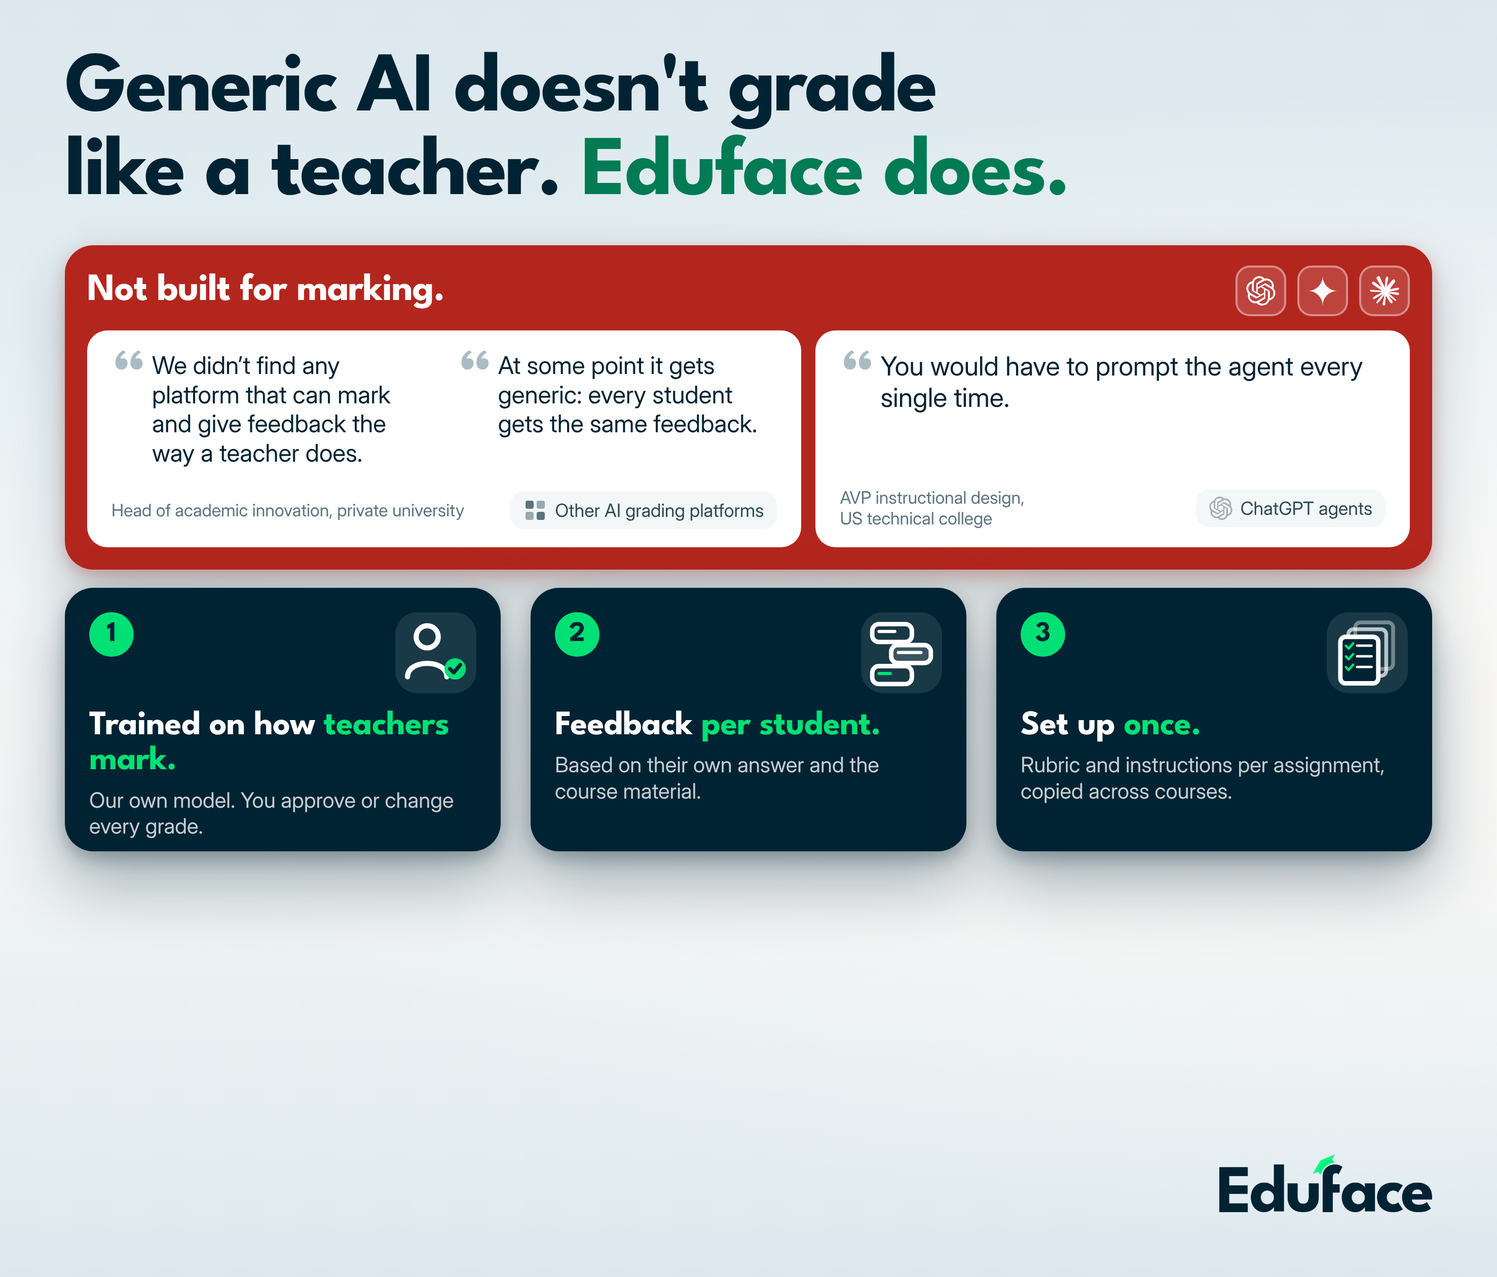
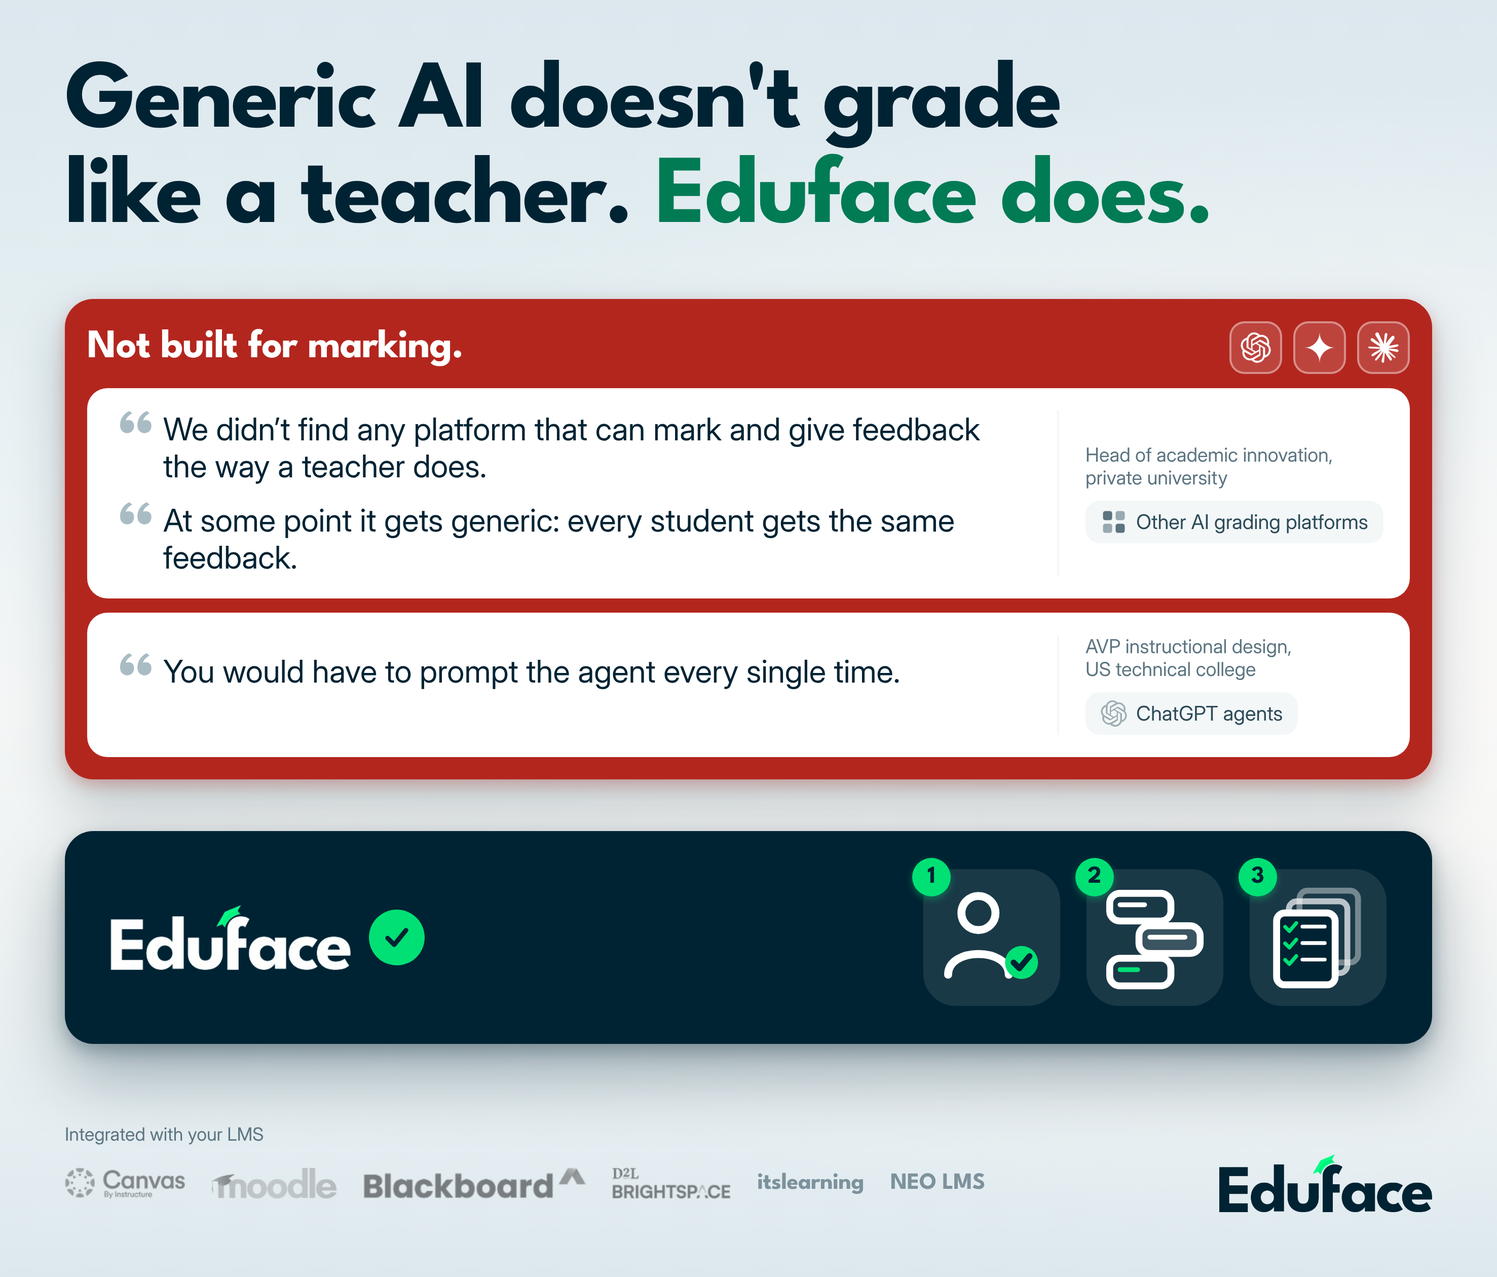
Backwall: hele wand gebruikt, quotes verticaal, Eduface-band zonder tekst, grijze LMS-rij onderaan
Claude-Session: https://claude.ai/code/session_011t24oRcD5DFuXzKigdVhtb

diff --git a/creatives/beurs-backwall/backwall.html b/creatives/beurs-backwall/backwall.html
@@ -4,7 +4,7 @@
 <meta charset="utf-8">
 <title>Beurs backwall</title>
 <style>
-  /* Canvas: 1 px = 1 mm. Wand is 2954 x 2520 mm. Onderste derde (vanaf y 1700) blijft leeg: dat zit aan de grond. */
+  /* Canvas: 1 px = 1 mm. Wand is 2954 x 2520 mm. Hele wand in gebruik: kop, rode zone, Eduface-band, LMS-rij onderaan. */
   @font-face { font-family: "League Spartan"; font-weight: 700; src: url("../../Design/Merk/fonts/LeagueSpartan-Bold.ttf"); }
   @font-face { font-family: "Inter"; font-weight: 400; src: url("../../Design/Merk/fonts/Inter-Regular.ttf"); }
   :root { --w: 2954px; --h: 2520px; --navy: #002333; --gd: #007b54; --g: #00e075; --i7: #2c4a57; --i5: #5b7480; --i3: #a9bcc4; --i2: #cdd9de; --i50: #f3f7f8; --red: #b3261e; }
@@ -19,40 +19,45 @@
   .abs { position: absolute; }
   .logo { position: absolute; right: 128px; bottom: 128px; width: 420px; height: auto; }
 
-  .h1 { position: absolute; left: 128px; top: 96px; font: 700 168px/.98 "League Spartan"; letter-spacing: -.025em; color: var(--navy); white-space: nowrap; }
+  .h1 { position: absolute; left: 128px; top: 110px; font: 700 192px/.98 "League Spartan"; letter-spacing: -.025em; color: var(--navy); white-space: nowrap; }
   .h1 em { font-style: normal; color: var(--gd); }
 
-  /* verticaal: titel, een rode zone (quotes + gebruikte tools), drie Eduface-kaarten. */
-  .red { position: absolute; left: 128px; top: 484px; width: 2698px; height: 640px; border-radius: 56px; background: var(--red);
-    padding: 40px 44px 44px; display: flex; flex-direction: column; gap: 28px;
+  /* rode zone: quotes onder elkaar */
+  .red { position: absolute; left: 128px; top: 590px; width: 2698px; border-radius: 56px; background: var(--red);
+    padding: 44px; display: flex; flex-direction: column; gap: 28px;
     box-shadow: 0 12px 30px rgba(179,38,30,.28), 0 50px 110px rgba(0,35,51,.22); }
-  .rhead { display: flex; align-items: center; justify-content: space-between; height: 100px; flex-shrink: 0; }
-  .rtitle { font: 700 76px/1 "League Spartan"; letter-spacing: -.015em; color: #fff; }
+  .rhead { display: flex; align-items: center; justify-content: space-between; height: 104px; }
+  .rtitle { font: 700 80px/1 "League Spartan"; letter-spacing: -.015em; color: #fff; }
   .rlogos { display: flex; gap: 22px; }
-  .rl { width: 100px; height: 100px; border-radius: 28px; background: rgba(255,255,255,.14); box-shadow: inset 0 0 0 4px rgba(255,255,255,.4); display: flex; align-items: center; justify-content: center; }
-  .rl img { width: 58px; height: 58px; filter: brightness(0) invert(1); }
+  .rl { width: 104px; height: 104px; border-radius: 30px; background: rgba(255,255,255,.14); box-shadow: inset 0 0 0 4px rgba(255,255,255,.4); display: flex; align-items: center; justify-content: center; }
+  .rl img { width: 60px; height: 60px; filter: brightness(0) invert(1); }
 
-  .rcards { display: flex; gap: 28px; flex: 1; min-height: 0; }
-  .qc { background: #fff; border-radius: 40px; padding: 40px 48px 36px; display: flex; flex-direction: column; justify-content: space-between; }
-  .qc.wide { flex: 1.22; } .qc.single { flex: 1; }
-  .qs { display: flex; gap: 52px; }
-  .qone { flex: 1; display: flex; gap: 18px; }
-  .qm { font: 700 130px/.8 "League Spartan"; color: var(--i3); width: 62px; flex: none; margin-top: 4px; }
-  .qt { font: 400 48px/1.2 Inter; color: var(--navy); }
-  .qc.single .qt { font-size: 52px; }
-  .qfoot { display: flex; align-items: center; justify-content: space-between; gap: 24px; }
-  .who { font: 400 34px/1.2 Inter; color: var(--i5); }
-  .tool { display: flex; align-items: center; gap: 16px; background: var(--i50); border-radius: 26px; padding: 14px 26px; font: 400 36px/1 Inter; color: var(--i7); white-space: nowrap; }
-  .tool img { width: 46px; height: 46px; opacity: .8; }
+  .qc { background: #fff; border-radius: 40px; padding: 44px 56px; display: flex; gap: 60px; align-items: stretch; }
+  .qs { flex: 1; display: flex; flex-direction: column; gap: 34px; justify-content: center; }
+  .qone { display: flex; gap: 22px; }
+  .qm { font: 700 150px/.8 "League Spartan"; color: var(--i3); width: 72px; flex: none; margin-top: 6px; }
+  .qt { font: 400 62px/1.18 Inter; color: var(--navy); }
+  .side { width: 640px; flex: none; display: flex; flex-direction: column; justify-content: center; gap: 22px; border-left: 4px solid var(--i50); padding-left: 52px; }
+  .who { font: 400 38px/1.2 Inter; color: var(--i5); }
+  .tool { align-self: flex-start; display: flex; align-items: center; gap: 18px; background: var(--i50); border-radius: 28px; padding: 16px 30px; font: 400 40px/1 Inter; color: var(--i7); white-space: nowrap; }
+  .tool img { width: 52px; height: 52px; opacity: .8; }
 
-  .adv { position: absolute; top: 1160px; width: 860px; height: 520px; padding: 48px; border-radius: 56px; background: var(--navy); color: #fff;
+  /* Eduface-band: geen tekst, alleen merk en drie iconen */
+  .eb { position: absolute; left: 128px; width: 2698px; height: 420px; border-radius: 56px; background: var(--navy);
+    display: flex; align-items: center; justify-content: space-between; padding: 0 90px;
     box-shadow: 0 14px 34px rgba(0,35,51,.28), 0 60px 130px rgba(0,35,51,.34); }
-  .adv .top { display: flex; justify-content: space-between; align-items: flex-start; }
-  .num { width: 88px; height: 88px; border-radius: 50%; background: var(--g); color: var(--navy); display: flex; align-items: center; justify-content: center; font: 700 56px/1 "League Spartan"; }
-  .ic { width: 160px; height: 160px; border-radius: 44px; background: rgba(255,255,255,.1); display: flex; align-items: center; justify-content: center; }
-  .a1 { font: 700 68px/1.02 "League Spartan"; letter-spacing: -.01em; margin-top: 30px; }
-  .a1 span { color: var(--g); }
-  .a2 { font: 400 42px/1.22 Inter; color: rgba(255,255,255,.78); margin-top: 16px; }
+  .eb .mark { display: flex; align-items: center; gap: 36px; }
+  .eb .mark img { height: 130px; width: auto; }
+  .ok { width: 110px; height: 110px; border-radius: 50%; background: var(--g); display: flex; align-items: center; justify-content: center; }
+  .icons { display: flex; gap: 52px; }
+  .it { position: relative; width: 270px; height: 270px; border-radius: 64px; background: rgba(255,255,255,.1); display: flex; align-items: center; justify-content: center; }
+  .it .n { position: absolute; top: -22px; left: -22px; width: 76px; height: 76px; border-radius: 50%; background: var(--g); color: var(--navy); display: flex; align-items: center; justify-content: center; font: 700 48px/1 "League Spartan"; box-shadow: 0 6px 14px rgba(0,224,117,.35); }
+
+  /* LMS-rij onderaan, links van het Eduface-logo */
+  .lms { position: absolute; left: 128px; top: 2278px; height: 114px; display: flex; align-items: center; gap: 52px; }
+  .lms img { height: 62px; width: auto; filter: grayscale(1) contrast(.9); opacity: .5; }
+  .lms .wm { font: 700 46px/1 "League Spartan"; letter-spacing: -.01em; color: var(--i5); opacity: .75; white-space: nowrap; }
+  .lms .lab { position: absolute; left: 0; top: -58px; font: 400 36px/1 Inter; color: var(--i5); white-space: nowrap; }
 </style>
 </head>
 <body>
@@ -64,23 +69,21 @@
 <script>
 const N='#002333', G='#00e075', W='#fff';
 const L=(f)=>`assets/logos/${f}.svg`;
-const chevD=`<svg width="40" height="40" viewBox="0 0 30 30"><polyline points="7,11 15,20 23,11" fill="none" stroke="#fff" stroke-width="5" stroke-linecap="round" stroke-linejoin="round"/></svg>`;
-const sv=(inner,s=136)=>`<svg width="${s}" height="${s}" viewBox="0 0 400 400">${inner}</svg>`;
+const sv=(inner,s=210)=>`<svg width="${s}" height="${s}" viewBox="0 0 400 400">${inner}</svg>`;
 
 /* Quotes: bron Eduface case study 25-11-2026, licht bewerkt voor correct Engels. Functie anoniem. */
-const platformIc=`<svg width="46" height="46" viewBox="0 0 46 46"><rect x="4" y="4" width="16" height="16" rx="4" fill="#5b7480"/><rect x="26" y="4" width="16" height="16" rx="4" fill="#5b7480" opacity=".6"/><rect x="4" y="26" width="16" height="16" rx="4" fill="#5b7480" opacity=".6"/><rect x="26" y="26" width="16" height="16" rx="4" fill="#5b7480"/></svg>`;
-const quote=(t,cls='')=>`<div class="qone"><div class="qm">\u201C</div><div class="qt">${t}</div></div>`;
+const platformIc=`<svg width="52" height="52" viewBox="0 0 46 46"><rect x="4" y="4" width="16" height="16" rx="4" fill="#5b7480"/><rect x="26" y="4" width="16" height="16" rx="4" fill="#5b7480" opacity=".6"/><rect x="4" y="26" width="16" height="16" rx="4" fill="#5b7480" opacity=".6"/><rect x="26" y="26" width="16" height="16" rx="4" fill="#5b7480"/></svg>`;
+const quote=(t)=>`<div class="qone"><div class="qm">“</div><div class="qt">${t}</div></div>`;
 const rl=(img)=>`<div class="rl"><img src="${L(img)}"></div>`;
 const red=`<div class="red">
   <div class="rhead"><div class="rtitle">Not built for marking.</div><div class="rlogos">${rl('openai')}${rl('googlegemini')}${rl('claude')}</div></div>
-  <div class="rcards">
-    <div class="qc wide"><div class="qs">${quote('We didn\u2019t find any platform that can mark and give feedback the way a teacher does.')}${quote('At some point it gets generic: every student gets the same feedback.')}</div>
-      <div class="qfoot"><div class="who">Head of academic innovation, private university</div><div class="tool">${platformIc}Other AI grading platforms</div></div></div>
-    <div class="qc single"><div class="qs">${quote('You would have to prompt the agent every single time.')}</div>
-      <div class="qfoot"><div class="who">AVP instructional design,<br>US technical college</div><div class="tool"><img src="${L('openai')}">ChatGPT agents</div></div></div>
-  </div></div>`;
+  <div class="qc"><div class="qs">${quote('We didn’t find any platform that can mark and give feedback the way a teacher does.')}${quote('At some point it gets generic: every student gets the same feedback.')}</div>
+    <div class="side"><div class="who">Head of academic innovation,<br>private university</div><div class="tool">${platformIc}Other AI grading platforms</div></div></div>
+  <div class="qc"><div class="qs">${quote('You would have to prompt the agent every single time.')}</div>
+    <div class="side"><div class="who">AVP instructional design,<br>US technical college</div><div class="tool"><img src="${L('openai')}">ChatGPT agents</div></div></div>
+</div>`;
 
-/* iconen (wit op navy, groene accenten) */
+/* iconen */
 const icTeacher=sv(`<circle cx="150" cy="108" r="64" fill="none" stroke="${W}" stroke-width="30"/><path d="M36,340 C36,236 264,236 264,340" fill="none" stroke="${W}" stroke-width="30" stroke-linecap="round"/><circle cx="312" cy="294" r="62" fill="${G}"/><polyline points="282,294 304,316 342,270" fill="none" stroke="${N}" stroke-width="22" stroke-linecap="round" stroke-linejoin="round"/>`);
 const icBubbles=sv(`<rect x="30" y="34" width="230" height="104" rx="38" fill="none" stroke="${W}" stroke-width="26"/><rect x="60" y="68" width="110" height="18" rx="9" fill="${W}"/>
   <rect x="140" y="156" width="230" height="104" rx="38" fill="rgba(255,255,255,.14)" stroke="${W}" stroke-width="26"/><rect x="172" y="190" width="150" height="18" rx="9" fill="${W}"/>
@@ -89,17 +92,16 @@ const icSheets=sv(`<rect x="130" y="24" width="220" height="270" rx="30" fill="n
   <rect x="90" y="64" width="220" height="270" rx="30" fill="none" stroke="${W}" stroke-width="22" opacity=".7"/>
   <rect x="44" y="108" width="220" height="270" rx="30" fill="${N}" stroke="${W}" stroke-width="26"/>
   ${[160,222,284].map(y=>`<polyline points="76,${y} 92,${y+16} 118,${y-14}" fill="none" stroke="${G}" stroke-width="14" stroke-linecap="round" stroke-linejoin="round"/><rect x="134" y="${y-8}" width="98" height="14" rx="7" fill="${W}"/>`).join('')}`);
+const okIc=`<div class="ok"><svg width="70" height="70" viewBox="0 0 54 54"><path d="M13,28 L23,38 L41,16" fill="none" stroke="${N}" stroke-width="7" stroke-linecap="round" stroke-linejoin="round"/></svg></div>`;
+const eb=(top)=>`<div class="eb" style="top:${top}px"><div class="mark"><img src="assets/logos/eduface-white.png">${okIc}</div>
+  <div class="icons"><div class="it"><div class="n">1</div>${icTeacher}</div><div class="it"><div class="n">2</div>${icBubbles}</div><div class="it"><div class="n">3</div>${icSheets}</div></div></div>`;
 
-const X=[128,1047,1966];
-const ADV=[
- {ic:icTeacher, h:'Trained on how <span>teachers mark.</span>', t:'Our own model. You approve or change every grade.'},
- {ic:icBubbles, h:'Feedback <span>per student.</span>', t:'Based on their own answer and the course material.'},
- {ic:icSheets,  h:'Set up <span>once.</span>', t:'Rubric and instructions per assignment, copied across courses.'}
-];
-const adv=ADV.map((r,i)=>`<div class="adv" style="left:${X[i]}px"><div class="top"><div class="num">${i+1}</div><div class="ic">${r.ic}</div></div><div class="a1">${r.h}</div><div class="a2">${r.t}</div></div>`).join('');
+/* LMS: logo's uit de door Dante aangeleverde strook; itslearning en Neo LMS als tekst tot er een logo is */
+const lms=`<div class="lms"><div class="lab">Integrated with your LMS</div>
+  <img src="assets/logos/lms-canvas.png"><img src="assets/logos/lms-moodle.png"><img src="assets/logos/lms-blackboard.png"><img src="assets/logos/lms-brightspace.png"><div class="wm">itslearning</div><div class="wm">NEO LMS</div></div>`;
 
 document.getElementById('layer-content').innerHTML =
- `<div class="h1">Generic AI doesn't grade<br>like a teacher. <em>Eduface does.</em></div>${red}${adv}`;
+ `<div class="h1">Generic AI doesn't grade<br>like a teacher. <em>Eduface does.</em></div>${red}${eb(1640)}${lms}`;
 </script>
 </body>
 </html>

diff --git a/creatives/beurs-backwall/backwall-rode-zone-2026-11-25.html b/creatives/beurs-backwall/backwall-rode-zone-2026-11-25.html
@@ -1,0 +1,105 @@
+<!doctype html>
+<html lang="en">
+<head>
+<meta charset="utf-8">
+<title>Beurs backwall</title>
+<style>
+  /* Canvas: 1 px = 1 mm. Wand is 2954 x 2520 mm. Onderste derde (vanaf y 1700) blijft leeg: dat zit aan de grond. */
+  @font-face { font-family: "League Spartan"; font-weight: 700; src: url("../../Design/Merk/fonts/LeagueSpartan-Bold.ttf"); }
+  @font-face { font-family: "Inter"; font-weight: 400; src: url("../../Design/Merk/fonts/Inter-Regular.ttf"); }
+  :root { --w: 2954px; --h: 2520px; --navy: #002333; --gd: #007b54; --g: #00e075; --i7: #2c4a57; --i5: #5b7480; --i3: #a9bcc4; --i2: #cdd9de; --i50: #f3f7f8; --red: #b3261e; }
+  * { margin: 0; box-sizing: border-box; }
+  html, body { width: var(--w); height: var(--h); }
+  .wall {
+    position: relative; width: var(--w); height: var(--h); overflow: hidden; color: var(--navy);
+    background:
+      radial-gradient(ellipse 80% 45% at 90% 52%, #f9f8f7 0%, rgba(249,248,247,0) 100%),
+      linear-gradient(180deg, #dce7ee 0%, #e2edf1 20%, #ecf3f5 40%, #f4f6f6 55%, #eff3f3 70%, #e4edf1 90%, #dde8ee 100%);
+  }
+  .abs { position: absolute; }
+  .logo { position: absolute; right: 128px; bottom: 128px; width: 420px; height: auto; }
+
+  .h1 { position: absolute; left: 128px; top: 96px; font: 700 168px/.98 "League Spartan"; letter-spacing: -.025em; color: var(--navy); white-space: nowrap; }
+  .h1 em { font-style: normal; color: var(--gd); }
+
+  /* verticaal: titel, een rode zone (quotes + gebruikte tools), drie Eduface-kaarten. */
+  .red { position: absolute; left: 128px; top: 484px; width: 2698px; height: 640px; border-radius: 56px; background: var(--red);
+    padding: 40px 44px 44px; display: flex; flex-direction: column; gap: 28px;
+    box-shadow: 0 12px 30px rgba(179,38,30,.28), 0 50px 110px rgba(0,35,51,.22); }
+  .rhead { display: flex; align-items: center; justify-content: space-between; height: 100px; flex-shrink: 0; }
+  .rtitle { font: 700 76px/1 "League Spartan"; letter-spacing: -.015em; color: #fff; }
+  .rlogos { display: flex; gap: 22px; }
+  .rl { width: 100px; height: 100px; border-radius: 28px; background: rgba(255,255,255,.14); box-shadow: inset 0 0 0 4px rgba(255,255,255,.4); display: flex; align-items: center; justify-content: center; }
+  .rl img { width: 58px; height: 58px; filter: brightness(0) invert(1); }
+
+  .rcards { display: flex; gap: 28px; flex: 1; min-height: 0; }
+  .qc { background: #fff; border-radius: 40px; padding: 40px 48px 36px; display: flex; flex-direction: column; justify-content: space-between; }
+  .qc.wide { flex: 1.22; } .qc.single { flex: 1; }
+  .qs { display: flex; gap: 52px; }
+  .qone { flex: 1; display: flex; gap: 18px; }
+  .qm { font: 700 130px/.8 "League Spartan"; color: var(--i3); width: 62px; flex: none; margin-top: 4px; }
+  .qt { font: 400 48px/1.2 Inter; color: var(--navy); }
+  .qc.single .qt { font-size: 52px; }
+  .qfoot { display: flex; align-items: center; justify-content: space-between; gap: 24px; }
+  .who { font: 400 34px/1.2 Inter; color: var(--i5); }
+  .tool { display: flex; align-items: center; gap: 16px; background: var(--i50); border-radius: 26px; padding: 14px 26px; font: 400 36px/1 Inter; color: var(--i7); white-space: nowrap; }
+  .tool img { width: 46px; height: 46px; opacity: .8; }
+
+  .adv { position: absolute; top: 1160px; width: 860px; height: 520px; padding: 48px; border-radius: 56px; background: var(--navy); color: #fff;
+    box-shadow: 0 14px 34px rgba(0,35,51,.28), 0 60px 130px rgba(0,35,51,.34); }
+  .adv .top { display: flex; justify-content: space-between; align-items: flex-start; }
+  .num { width: 88px; height: 88px; border-radius: 50%; background: var(--g); color: var(--navy); display: flex; align-items: center; justify-content: center; font: 700 56px/1 "League Spartan"; }
+  .ic { width: 160px; height: 160px; border-radius: 44px; background: rgba(255,255,255,.1); display: flex; align-items: center; justify-content: center; }
+  .a1 { font: 700 68px/1.02 "League Spartan"; letter-spacing: -.01em; margin-top: 30px; }
+  .a1 span { color: var(--g); }
+  .a2 { font: 400 42px/1.22 Inter; color: rgba(255,255,255,.78); margin-top: 16px; }
+</style>
+</head>
+<body>
+  <div class="wall" id="wall">
+    <div id="layer-content"></div>
+    <img class="logo" src="../../Design/Merk/logos/logo_navy.png" alt="Eduface">
+  </div>
+
+<script>
+const N='#002333', G='#00e075', W='#fff';
+const L=(f)=>`assets/logos/${f}.svg`;
+const chevD=`<svg width="40" height="40" viewBox="0 0 30 30"><polyline points="7,11 15,20 23,11" fill="none" stroke="#fff" stroke-width="5" stroke-linecap="round" stroke-linejoin="round"/></svg>`;
+const sv=(inner,s=136)=>`<svg width="${s}" height="${s}" viewBox="0 0 400 400">${inner}</svg>`;
+
+/* Quotes: bron Eduface case study 25-11-2026, licht bewerkt voor correct Engels. Functie anoniem. */
+const platformIc=`<svg width="46" height="46" viewBox="0 0 46 46"><rect x="4" y="4" width="16" height="16" rx="4" fill="#5b7480"/><rect x="26" y="4" width="16" height="16" rx="4" fill="#5b7480" opacity=".6"/><rect x="4" y="26" width="16" height="16" rx="4" fill="#5b7480" opacity=".6"/><rect x="26" y="26" width="16" height="16" rx="4" fill="#5b7480"/></svg>`;
+const quote=(t,cls='')=>`<div class="qone"><div class="qm">\u201C</div><div class="qt">${t}</div></div>`;
+const rl=(img)=>`<div class="rl"><img src="${L(img)}"></div>`;
+const red=`<div class="red">
+  <div class="rhead"><div class="rtitle">Not built for marking.</div><div class="rlogos">${rl('openai')}${rl('googlegemini')}${rl('claude')}</div></div>
+  <div class="rcards">
+    <div class="qc wide"><div class="qs">${quote('We didn\u2019t find any platform that can mark and give feedback the way a teacher does.')}${quote('At some point it gets generic: every student gets the same feedback.')}</div>
+      <div class="qfoot"><div class="who">Head of academic innovation, private university</div><div class="tool">${platformIc}Other AI grading platforms</div></div></div>
+    <div class="qc single"><div class="qs">${quote('You would have to prompt the agent every single time.')}</div>
+      <div class="qfoot"><div class="who">AVP instructional design,<br>US technical college</div><div class="tool"><img src="${L('openai')}">ChatGPT agents</div></div></div>
+  </div></div>`;
+
+/* iconen (wit op navy, groene accenten) */
+const icTeacher=sv(`<circle cx="150" cy="108" r="64" fill="none" stroke="${W}" stroke-width="30"/><path d="M36,340 C36,236 264,236 264,340" fill="none" stroke="${W}" stroke-width="30" stroke-linecap="round"/><circle cx="312" cy="294" r="62" fill="${G}"/><polyline points="282,294 304,316 342,270" fill="none" stroke="${N}" stroke-width="22" stroke-linecap="round" stroke-linejoin="round"/>`);
+const icBubbles=sv(`<rect x="30" y="34" width="230" height="104" rx="38" fill="none" stroke="${W}" stroke-width="26"/><rect x="60" y="68" width="110" height="18" rx="9" fill="${W}"/>
+  <rect x="140" y="156" width="230" height="104" rx="38" fill="rgba(255,255,255,.14)" stroke="${W}" stroke-width="26"/><rect x="172" y="190" width="150" height="18" rx="9" fill="${W}"/>
+  <rect x="30" y="278" width="230" height="104" rx="38" fill="none" stroke="${W}" stroke-width="26"/><rect x="60" y="312" width="84" height="18" rx="9" fill="${G}"/>`);
+const icSheets=sv(`<rect x="130" y="24" width="220" height="270" rx="30" fill="none" stroke="${W}" stroke-width="22" opacity=".4"/>
+  <rect x="90" y="64" width="220" height="270" rx="30" fill="none" stroke="${W}" stroke-width="22" opacity=".7"/>
+  <rect x="44" y="108" width="220" height="270" rx="30" fill="${N}" stroke="${W}" stroke-width="26"/>
+  ${[160,222,284].map(y=>`<polyline points="76,${y} 92,${y+16} 118,${y-14}" fill="none" stroke="${G}" stroke-width="14" stroke-linecap="round" stroke-linejoin="round"/><rect x="134" y="${y-8}" width="98" height="14" rx="7" fill="${W}"/>`).join('')}`);
+
+const X=[128,1047,1966];
+const ADV=[
+ {ic:icTeacher, h:'Trained on how <span>teachers mark.</span>', t:'Our own model. You approve or change every grade.'},
+ {ic:icBubbles, h:'Feedback <span>per student.</span>', t:'Based on their own answer and the course material.'},
+ {ic:icSheets,  h:'Set up <span>once.</span>', t:'Rubric and instructions per assignment, copied across courses.'}
+];
+const adv=ADV.map((r,i)=>`<div class="adv" style="left:${X[i]}px"><div class="top"><div class="num">${i+1}</div><div class="ic">${r.ic}</div></div><div class="a1">${r.h}</div><div class="a2">${r.t}</div></div>`).join('');
+
+document.getElementById('layer-content').innerHTML =
+ `<div class="h1">Generic AI doesn't grade<br>like a teacher. <em>Eduface does.</em></div>${red}${adv}`;
+</script>
+</body>
+</html>
